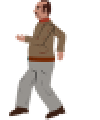
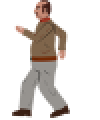
added player sprites duck, fixed player hitbox

diff --git a/code/_01_level/player.py b/code/_01_level/player.py
@@ -40,18 +40,19 @@ class Player(pg.sprite.Sprite):
                             pg.image.load("../graphics/01_excavation_site/entities/player/jump_right/player_jump_right_f2.png").convert_alpha(),
                             pg.image.load("../graphics/01_excavation_site/entities/player/jump_right/player_jump_right_f3.png").convert_alpha(),
                             pg.image.load("../graphics/01_excavation_site/entities/player/jump_right/player_jump_right_f4.png").convert_alpha()),
-            "duck_left" : (pg.image.load("../graphics/01_excavation_site/entities/player/player_test.png").convert_alpha(),
-                           pg.image.load("../graphics/01_excavation_site/entities/player/player_test.png").convert_alpha()),
-            "duck_right" : (pg.image.load("../graphics/01_excavation_site/entities/player/player_test.png").convert_alpha(),
-                            pg.image.load("../graphics/01_excavation_site/entities/player/player_test.png").convert_alpha())
+            "duck_left" : (pg.image.load("../graphics/01_excavation_site/entities/player/duck_left/player_duck_left_f1.png").convert_alpha(),
+                           pg.image.load("../graphics/01_excavation_site/entities/player/duck_left/player_duck_left_f2.png").convert_alpha()),
+            "duck_right" : (pg.image.load("../graphics/01_excavation_site/entities/player/duck_right/player_duck_right_f1.png").convert_alpha(),
+                            pg.image.load("../graphics/01_excavation_site/entities/player/duck_right/player_duck_right_f2.png").convert_alpha())
         }
+
         self.frame_index = 0
         self.run_frame_direction = 1
         self.animation_status = "stand_right"
         self.old_animation_status = self.animation_status
 
         self.image = self.sprites[self.animation_status][self.frame_index]
-        self.rect = self.image.get_rect(topleft=pos)
+        self.set_hitbox(pos)
         self.xy_pos = pg.math.Vector2(self.rect.topleft)
         self.start_xy_pos = tuple(self.xy_pos)
         self.z = LAYERS['MG']
@@ -69,6 +70,19 @@ class Player(pg.sprite.Sprite):
 
         self.death_zones = death_zones
 
+    def set_hitbox(self, pos):
+        """generates rect object and adjust its size to be the hitbox"""
+
+        self.rect = self.image.get_rect(topleft=pos)
+
+        hitbox_margin = (self.rect.width / 3.2)
+        hitbox_left = self.rect.left + hitbox_margin
+
+        self.rect = pg.Rect((hitbox_left,  # left
+                               self.rect.top), # top
+                              (self.rect.width - (2 * hitbox_margin),  # width
+                               self.rect.height)) # height
+
     def check_fall_death(self):
 
         if self.rect.collidelist(self.death_zones) >= 0:
@@ -77,8 +91,6 @@ class Player(pg.sprite.Sprite):
 
     def check_collision(self, direction):
 
-        bottom_rect = pg.Rect(self.rect.left, self.rect.bottom, self.rect.width, 40)
-
         contact = False
 
         for sprite in self.collision_sprites.sprites():
@@ -86,7 +98,7 @@ class Player(pg.sprite.Sprite):
             # check for tiles in 90 pixels distance to player
             if sprite.check_distance_to_player(90):
 
-                # contact between player and floor
+                # contact between player rect and floor, ceiling, and walls
                 if sprite.rect.colliderect(self.rect):
 
                     if direction == "horizontal":
@@ -95,21 +107,24 @@ class Player(pg.sprite.Sprite):
                             if self.rect.left <= sprite.rect.right:
                                 self.rect.left = sprite.rect.right
                         # right collision
-                        else:
+                        elif self.direction.x > 0:
                             if self.rect.right >= sprite.rect.left:
                                 self.rect.right = sprite.rect.left
                         self.xy_pos.x = self.rect.x
-                    else:
+                    elif direction == "vertical":
                         # top collision
                         if self.rect.top <= sprite.rect.bottom:
-                            self.rect.top = sprite.rect.bottom
+                            if self.direction.y < 0:
+                                self.rect.top = sprite.rect.bottom
+                                self.rect.top = sprite.rect.bottom
                         # bottom collision
                         if self.rect.bottom >= sprite.rect.top:
-                            self.rect.bottom = sprite.rect.top
-                            contact = True
-                            self.on_floor = True
-                            if self.jumped:
-                                self.jumped = False
+                            if self.direction.y >= 0:
+                                self.rect.bottom = sprite.rect.top
+                                contact = True
+                                self.on_floor = True
+                                if self.jumped:
+                                    self.jumped = False
                         self.xy_pos.y = self.rect.y
                         self.direction.y = 0
 
@@ -179,6 +194,13 @@ class Player(pg.sprite.Sprite):
 
     def animate(self, dt):
 
+        if "duck" in self.animation_status:
+            frame_rotation_power = 2
+        elif "run" in self.animation_status:
+            frame_rotation_power = 9
+        else:
+            frame_rotation_power = 7
+
         if self.animation_status != self.old_animation_status:
             self.frame_index = 0
             if "run" in self.animation_status:
@@ -189,26 +211,25 @@ class Player(pg.sprite.Sprite):
             self.frame_index = len(self.sprites[self.animation_status]) - 1
         elif "run" in self.animation_status:
             if self.run_frame_direction > 0: # going forwards through tuple
-                self.frame_index += 7 * dt
+                self.frame_index += frame_rotation_power * dt
                 if self.frame_index >= len(self.sprites[self.animation_status]):
                     self.frame_index = len(self.sprites[self.animation_status]) - 1
                     self.run_frame_direction = -1
             else: # going backwards through tuple
-                self.frame_index -= 7 * dt
+                self.frame_index -= frame_rotation_power * dt
                 if self.frame_index < 0:
                     self.frame_index = 0
                     self.run_frame_direction = 1
         elif "jump" in self.animation_status:
-            # self.frame_index += 7 * dt
             if self.direction.y < 0:
-                if self.frame_index + (7*dt) > len(self.sprites[self.animation_status]) - 1:
+                if self.frame_index + (frame_rotation_power * dt) > len(self.sprites[self.animation_status]) - 1:
                     self.frame_index = len(self.sprites[self.animation_status]) - 2
                 else:
-                    self.frame_index += 7 * dt
+                    self.frame_index += frame_rotation_power * dt
             else:
                 self.frame_index = len(self.sprites[self.animation_status]) - 1
         else:
-            self.frame_index += 7 * dt
+            self.frame_index += frame_rotation_power * dt
             if self.frame_index >= len(self.sprites[self.animation_status]):
                 self.frame_index = 0
 
@@ -222,6 +243,11 @@ class Player(pg.sprite.Sprite):
         self.move(dt)
         self.animate(dt)
         self.check_fall_death()
+
+        # print(f"RECT: {self.rect.top}")
+        # print(f"HITBOX: {self.hitbox.top}")
+        # print(f"XY: {self.xy_pos.y}")
+
         # print(self.xy_pos)
         # print("current rect", self.rect.left)
         # print("old rect", self.old_rect.left)

diff --git a/code/_01_level/_01_main.py b/code/_01_level/_01_main.py
@@ -159,5 +159,3 @@ class _01_Main:
                     elif sprite.__class__.__name__ == "Player":
                         self.all_sprites.draw(sprite=sprite, player=self.player)
 
-
-
